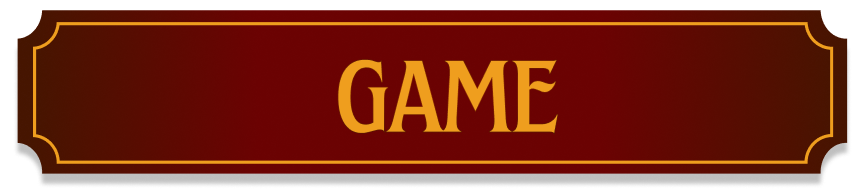
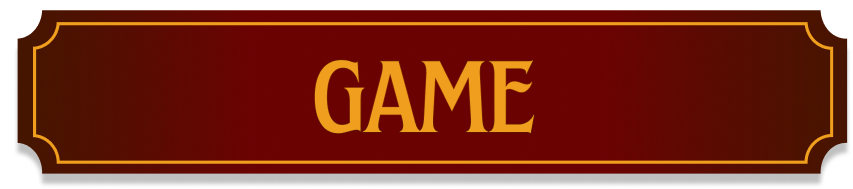
fix responsive row 5

Changed region(s): [[0.3658, 0.3175, 0.6706, 0.7143]]

diff --git a/project-website-culfest/app/page.tsx b/project-website-culfest/app/page.tsx
@@ -487,9 +487,9 @@ export default function Home() {
             <div className="relative w-full">
               <div className="absolute inset-0 z-0" style={{ backgroundImage: "url('/images/bg-section-1.png')", backgroundSize: 'cover', backgroundPosition: 'center' }} />
               <div className="absolute top-0 bottom-0 left-1/2 -translate-x-1/2 w-[80%] z-1" style={{ backgroundImage: "url('/images/paper.png')", backgroundSize: '100% 600vh', backgroundRepeat: 'no-repeat', backgroundPosition: 'center -400vh' }} />
-              <div className="absolute top-0 bottom-0 left-1/2 -translate-x-1/2 w-[77%] z-1" style={{ backgroundImage: "url('/images/game/bg-motif.png')", backgroundSize: 'contain', backgroundRepeat: 'no-repeat', backgroundPosition: 'center center' }} />
+              <div className="absolute top-0 bottom-0 left-1/2 -translate-x-1/2 w-[77%] z-1" style={{ backgroundImage: "url('/images/game/bg-motif.png')", backgroundSize: 'cover', backgroundRepeat: 'no-repeat', backgroundPosition: 'center center' }} />
 
-              <div className='absolute top-0 w-full h-28 bg-[#03005e] z-1 flex items-center justify-center'>
+              <div className='absolute top-0 w-full max-md:min-w-[70%] h-28 bg-[#03005e] z-1 flex items-center justify-center'>
                 <Image
                   src="/images/game/title-game.png"
                   alt="title game"
@@ -501,18 +501,18 @@ export default function Home() {
               </div>
 
               {/* Clouds — absolute relative to section */}
-              <div className="absolute -left-10 bottom-50 animate-cloudLeft transition-opacity duration-500 z-3">
+              <div className="absolute -left-10 max-md:-left-45 bottom-50 animate-cloudLeft transition-opacity duration-500 z-3">
                 <Image src="/images/awan.png" alt="cloud left" width={260} height={95} className="object-fill" />
               </div>
 
-              <div className="absolute -right-50 top-40 animate-cloudRight transition-opacity duration-500 z-3">
+              <div className="absolute -right-50 max-md:-right-90 top-40 animate-cloudRight transition-opacity duration-500 z-3">
                 <Image src="/images/awan.png" alt="cloud right" width={430} height={180} className="object-fill" />
               </div>
 
               <section className="relative z-2 w-[80%] mx-auto h-screen flex items-center justify-center">
 
                 <div className="
-          w-[90%] rounded-2xl px-10 py-20
+          w-[90%] rounded-2xl px-10 max-md:px-5 py-20 max-md:py-5
           bg-linear-to-r from-[#de8402]/80 from-0% via-[#ffd286]/80 via-80% to-[#de8402]/80 to-100% 
           border-2 border-[#461500]
           shadow-2xl flex flex-col gap-6
